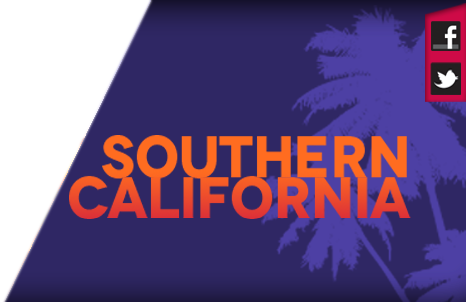
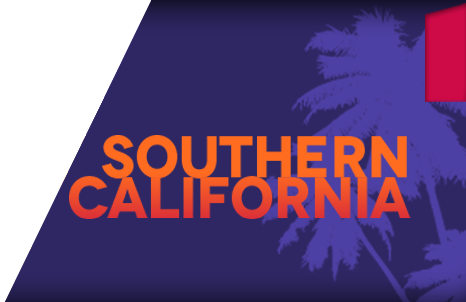
updates

diff --git a/css/main.css b/css/main.css
@@ -71,10 +71,10 @@ header .secondary ul li a { color: #fff; text-decoration: none; margin: 0 4px; p
 #slides #slider-mask  h3 a:hover { color: #fc6a1f; -webkit-transition: color 200ms linear; -moz-transition: color 200ms linear; -ms-transition: color 200ms linear; -o-transition: color 200ms linear; transition: color 200ms linear; }
 #slides #slider-mask  h4 { margin-top: 0; margin-left: 142px; color: #fff; font-size: 35px; }
 #slides #slider-mask  h4 + h4 { margin-top: 90px; margin-left: 320px; }
-#slides #slider-mask .ir { position: absolute; z-index: 20; top: 20px; right: 4px; width: 32px; height: 32px; }
-#slides #slider-mask .ir:hover { background: url(../images/social.png) no-repeat; background-position-x: 1px; }
-#slides #slider-mask .ir + .ir { top: 63px; }
-#slides #slider-mask .ir + .ir:hover { background: url(../images/social.png) -31px 0 no-repeat; }
+#slides #slider-mask .ir { position: absolute; z-index: 20; top: 20px; right: 4px; width: 30px; height: 30px; background: url(../images/fb.png) }
+#slides #slider-mask .ir:hover { background: url(../images/fb-hover.png) no-repeat; }
+#slides #slider-mask .ir + .ir { top: 63px; background: url(../images/tw.png) no-repeat; }
+#slides #slider-mask .ir + .ir:hover { background: url(../images/tw-hover.png) no-repeat; }
 .double, .single { display: block; width: 487px; height: 151px; float: left; margin-left: 20px; margin-bottom: 13px; }
 .single { width: 238px; margin-left: 10px; }
 .about { background: url(../images/about-bg.png) no-repeat; }
@@ -176,11 +176,11 @@ line-height: 18px; font-weight: bold; }
 .form #masthead .ir + .ir { top: 63px; }
 .form #masthead .ir:hover { background: url(../images/social.png) no-repeat; background-position-x: 1px; }
 .form #masthead .ir + .ir:hover { background: url(../images/social.png) -31px 0 no-repeat; }
-.form form { background: #808080; padding: 20px; width: 944px; margin: 20px auto; }
+.form form { background: #808080; padding: 10px; width: 854px; margin: 50px auto;}
 .form form fieldset { border: none; margin-bottom: 10px; }
 .form form legend { color: #fff; font-size: 16px; font-weight: bold; padding-bottom: 10px; text-shadow:0 0 5px #000, 0 0 1px transparent; }
-.form form ul { padding-left: 20px; }
-.form form ul li { background: rgb(166, 166, 166); border: 2px solid #f1f1f1; -moz-border-radius: 3px; -webkit-border-radius: 3px; -khtml-border-radius: 3px; border-radius: 3px; line-height: 30px; list-style: none; padding: 5px 10px; margin-bottom: 2px; }
+.form form ul { padding: 0 20px; }
+.form form ul li { background: rgb(166, 166, 166); border: 2px solid #f1f1f1; -moz-border-radius: 3px; -webkit-border-radius: 3px; -khtml-border-radius: 3px; border-radius: 3px; line-height: 30px; list-style: none; padding: 5px 10px; margin-bottom: 2px; font-size: 12px; }
 .form form .details-personal label { width: 150px; }
 .form form label { float: left; font-size: 13px; width: 350px; }
 
@@ -190,23 +190,10 @@ line-height: 18px; font-weight: bold; }
 .form form input[type="checkbox"] { width: 20px; }
 .form form textarea { height: 50px; }
 .form form fieldset:last-child { text-align: center; }
-.form form input.btn { font-size: 16px; line-height: normal; padding: 9px 14px 9px; -webkit-border-radius: 3px; -moz-border-radius: 3px; border-radius: 3px;   
-  background-color: hsl(345, 72%, 47%);
-  background-repeat: repeat-x;
-  filter: progid:DXImageTransform.Microsoft.gradient(startColorstr="#dc2855", endColorstr="#ce214c");
-  background-image: -khtml-gradient(linear, left top, left bottom, from(#dc2855), to(#ce214c));
-  background-image: -moz-linear-gradient(top, #dc2855, #ce214c);
-  background-image: -ms-linear-gradient(top, #dc2855, #ce214c);
-  background-image: -webkit-gradient(linear, left top, left bottom, color-stop(0%, #dc2855), color-stop(100%, #ce214c));
-  background-image: -webkit-linear-gradient(top, #dc2855, #ce214c);
-  background-image: -o-linear-gradient(top, #dc2855, #ce214c);
-  background-image: linear-gradient(#dc2855, #ce214c);
-  border-color: #ce214c #ce214c hsl(345, 72%, 46%);
-  color: #fff;
-  text-shadow: 0 -1px 0 rgba(0, 0, 0, 0.06);
-  -webkit-font-smoothing: antialiased;
+.form form input.btn { font-size: 16px; line-height: normal; padding: 9px 14px 9px; -webkit-border-radius: 3px; -moz-border-radius: 3px; border-radius: 3px; border: 1px solid #ccc; border-bottom-color: #bbb; -webkit-box-shadow: inset 0 1px 0 rgba(255, 255, 255, 0.2), 0 1px 2px rgba(0, 0, 0, 0.05); -moz-box-shadow: inset 0 1px 0 rgba(255, 255, 255, 0.2), 0 1px 2px rgba(0, 0, 0, 0.05); box-shadow: inset 0 1px 0 rgba(255, 255, 255, 0.2), 0 1px 2px rgba(0, 0, 0, 0.05); border: 1px solid #ccc; background-color: hsl(345, 72%, 44%) !important; background-repeat: repeat-x; filter: progid:DXImageTransform.Microsoft.gradient(startColorstr="#de355f", endColorstr="#c01f47"); background-image: -khtml-gradient(linear, left top, left bottom, from(#de355f), to(#c01f47)); background-image: -moz-linear-gradient(top, #de355f, #c01f47); background-image: -ms-linear-gradient(top, #de355f, #c01f47); background-image: -webkit-gradient(linear, left top, left bottom, color-stop(0%, #de355f), color-stop(100%, #c01f47)); background-image: -webkit-linear-gradient(top, #de355f, #c01f47); background-image: -o-linear-gradient(top, #de355f, #c01f47); background-image: linear-gradient(#de355f, #c01f47); border-color: #c01f47 #c01f47 hsl(345, 72%, 41.5%); color: #fff; text-shadow: 0 -1px 0 rgba(0, 0, 0, 0.16); -webkit-font-smoothing: antialiased;
 }
-.form form input.btn:hover { color: #000; -webkit-transition: color 200ms linear; -moz-transition: color 200ms linear; -ms-transition: color 200ms linear; -o-transition: color 200ms linear; transition: color 200ms linear; }
+.form form input.btn:hover { color: #000; -webkit-transition: 200ms linear; -moz-transition: 200ms linear; -ms-transition: 200ms linear; -o-transition: 200ms linear; transition: 200ms linear; background-position: 0px -15px;}
+.form form input.btn:active { box-shadow: 0px 3px 7px rgba(0, 0, 0, 0.1) inset, 0px 1px 2px rgba(0, 0, 0, 0.05); color: #ff6c20; }
 .form footer { margin-top: 0; }
 
 /* ==========================================================================
